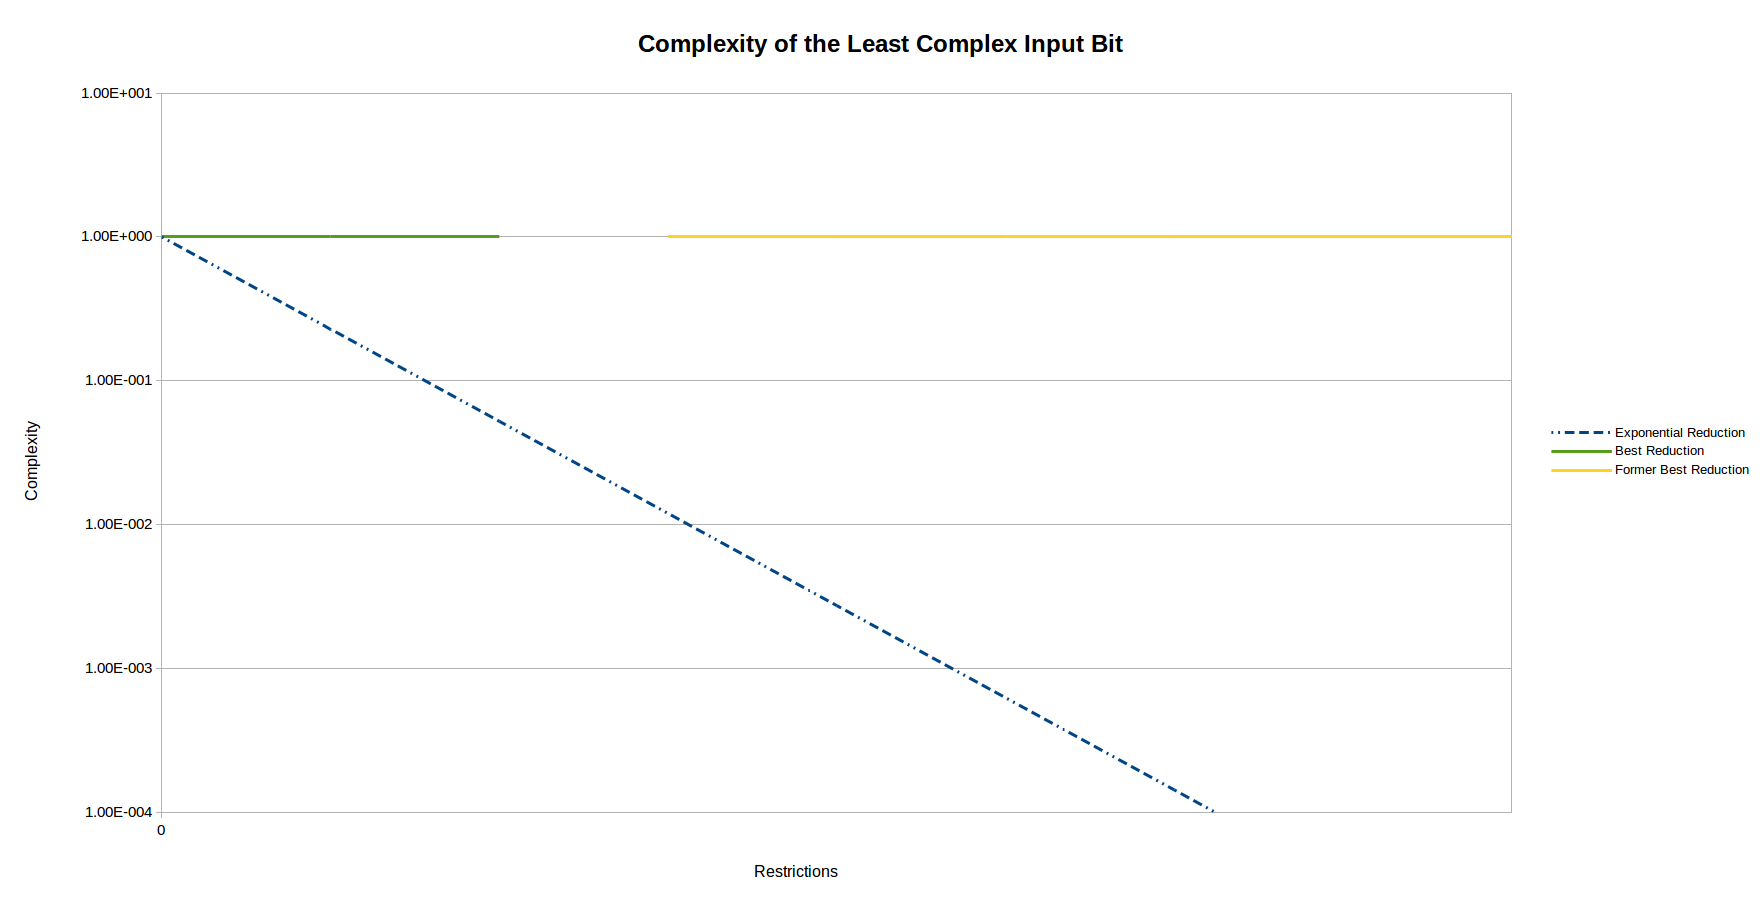
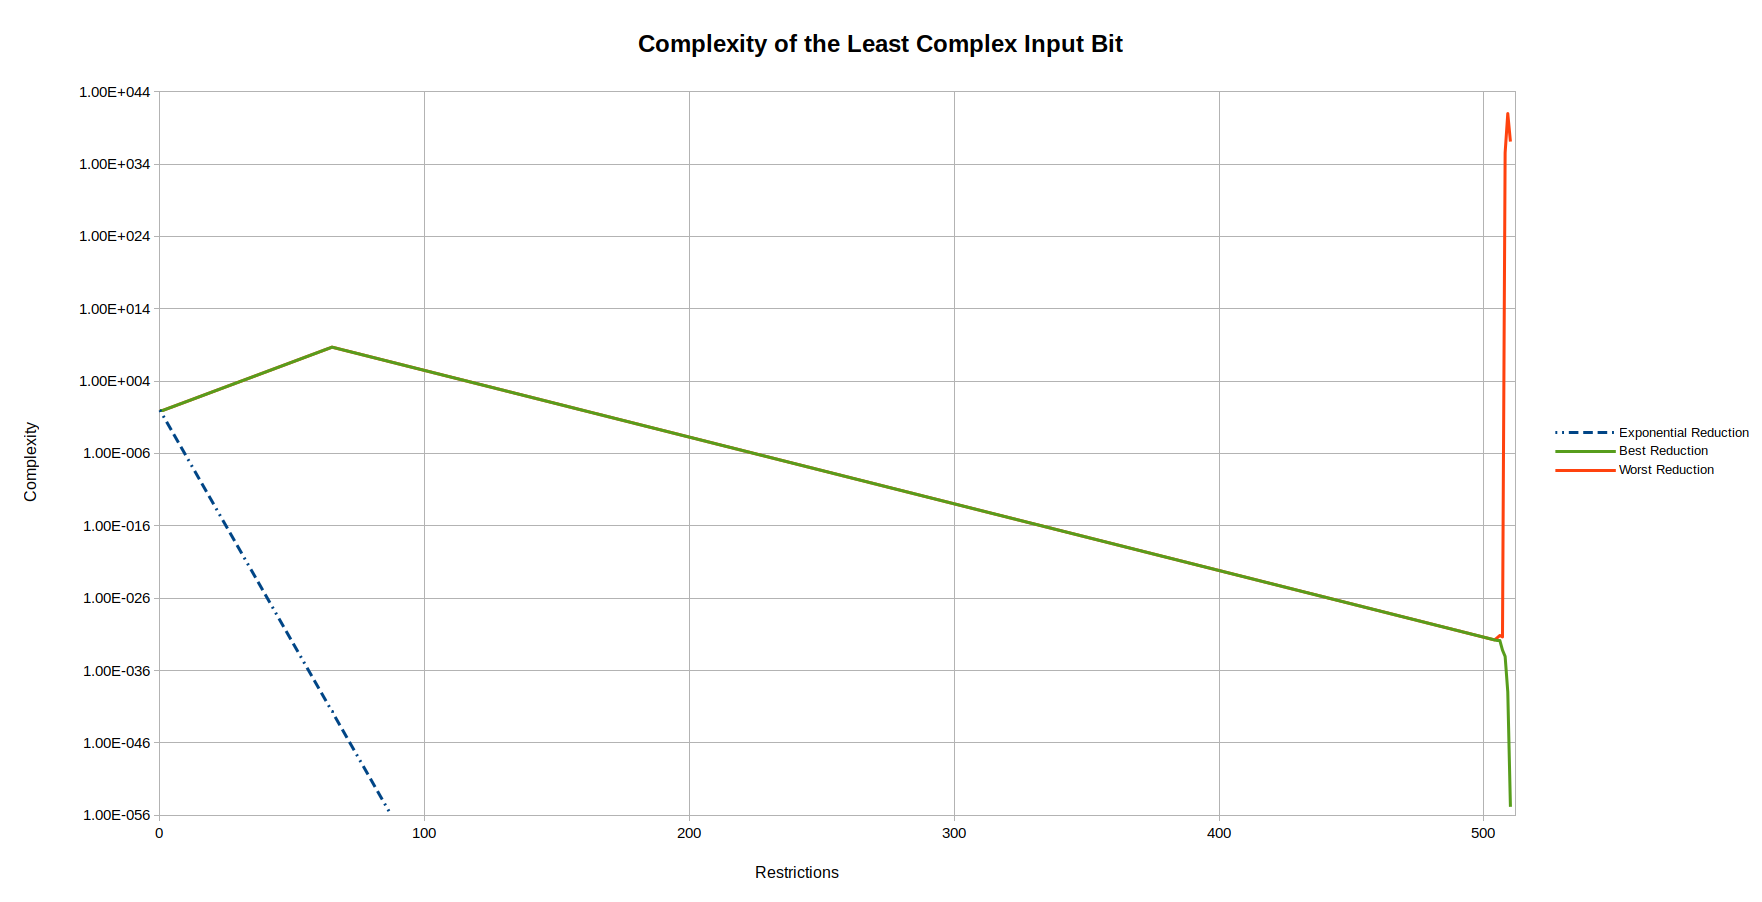
Updated the results page

diff --git a/results/Overview.md b/results/Overview.md
@@ -91,8 +91,8 @@ input bits fixed.
 
 Results better than the linear reduction are marked in bold.
 
-| Restrictions | Linear Reduction | Best Reduction | Best Restriction |
-|:------------:|:----------------:|:--------------:| ---------------- |
+| Restrictions | Linear Reduction | Best Reduction | Worst Reduction |
+|:------------:|:----------------:|:--------------:|:---------------:|
 | 0 | 2284331 | 2284331 | 2284331 |
 | 1 | 2279861 | 2278927 | 2278927 |
 | 65 | 1993761 | 1996797 | 1996797 |
@@ -107,7 +107,7 @@ Results better than the linear reduction are marked in bold.
 
 ![Number of Direct Occurrences](Number_of_Direct_Occurrences.png "Number of Direct Occurrences")
 
-![Number of Direct Occurrences for 500 Restrictions and More](Number_of_Direct_Occurrences_or_Higher.png "Number of Direct Occurrences for 500 Restrictions and More")
+![Number of Direct Occurrences for 500 Restrictions and More](Number_of_Direct_Occurrences_500_or_Higher.png "Number of Direct Occurrences for 500 Restrictions and More")
 
 ## Complexity of the Least Complex Input Bit
 
@@ -127,13 +127,23 @@ below the complexity of the least complex input bit from the previous round.
 
 Results better than the exponential reduction are marked in bold.
 
-| Restrictions | Exponential Reduction | Best Reduction | Best Restriction |
-|:------------:|:---------------------:|:--------------:| ---------------- |
-|       0      | 2.62×10³²⁷            | 2.62×10³²⁷     | [Initial Situation](000/000.md) |
-|       1      | 5.99×10³²⁶            | 2.62×10³²⁷     | Many             |
-|       2      | 1.37×10³²⁶            | 2.62×10³²⁷     | Many             |
+| Restrictions | Linear Reduction | Best Reduction | Worst Reduction |
+|:------------:|:----------------:|:--------------:|:---------------:|
+| 0 | 2.618×10^327 | 2.618×10^327 | 2.618×10^327 |
+| 1 | 5.986×10^326 | 2.618×10^327 | 2.618×10^327 |
+| 65 | 5.886×10^285 | 1.299×10^336 | 1.299×10^336 |
+| 504 | 2.587×10^4 | 4.489×10^295 | 4.489×10^295 |
+| 505 |  | 3.244×10^295 | 8.771×10^295 |
+| 506 |  | 3.888×10^295 | 1.836×10^296 |
+| 507 |  | 1.759×10^294 | 1.169×10^296 |
+| 508 |  | 2.357×10^293 | 9.300×10^362 |
+| 509 |  | 2.939×10^288 | 2.423×10^368 |
+| 510 |  | 3.900×10^272 | 3.300×10^364 |
+| 511 |  | 6.700×10^1 | 9.500×10^1 |
 
 ![Least Complex Input Bit](Least_Complex_Input_Bit.png "Least Complex Input Bit")
+
+![Least Complex Input Bit for 500 Restrictions and More](Least_Complex_Input_Bit_500_or_Higher.png "Least Complex Input Bit for 500 Restrictions and More")
 
 ## Total Complexity
 
@@ -189,8 +199,8 @@ fixed.
 
 Results better than the linear reduction are marked in bold.
 
-| Restrictions | Linear Reduction | Best Reduction | Best Restriction |
-|:------------:|:----------------:|:--------------:| ---------------- |
+| Restrictions | Linear Reduction | Best Reduction | Worst Reduction |
+|:------------:|:----------------:|:--------------:|:---------------:|
 | 0 | 25956122 | 25956122 | 25956122 |
 | 1 | 25905327 | 25950718 | 25950718 |
 | 65 | 22654463 | 25500762 | 25500762 |
